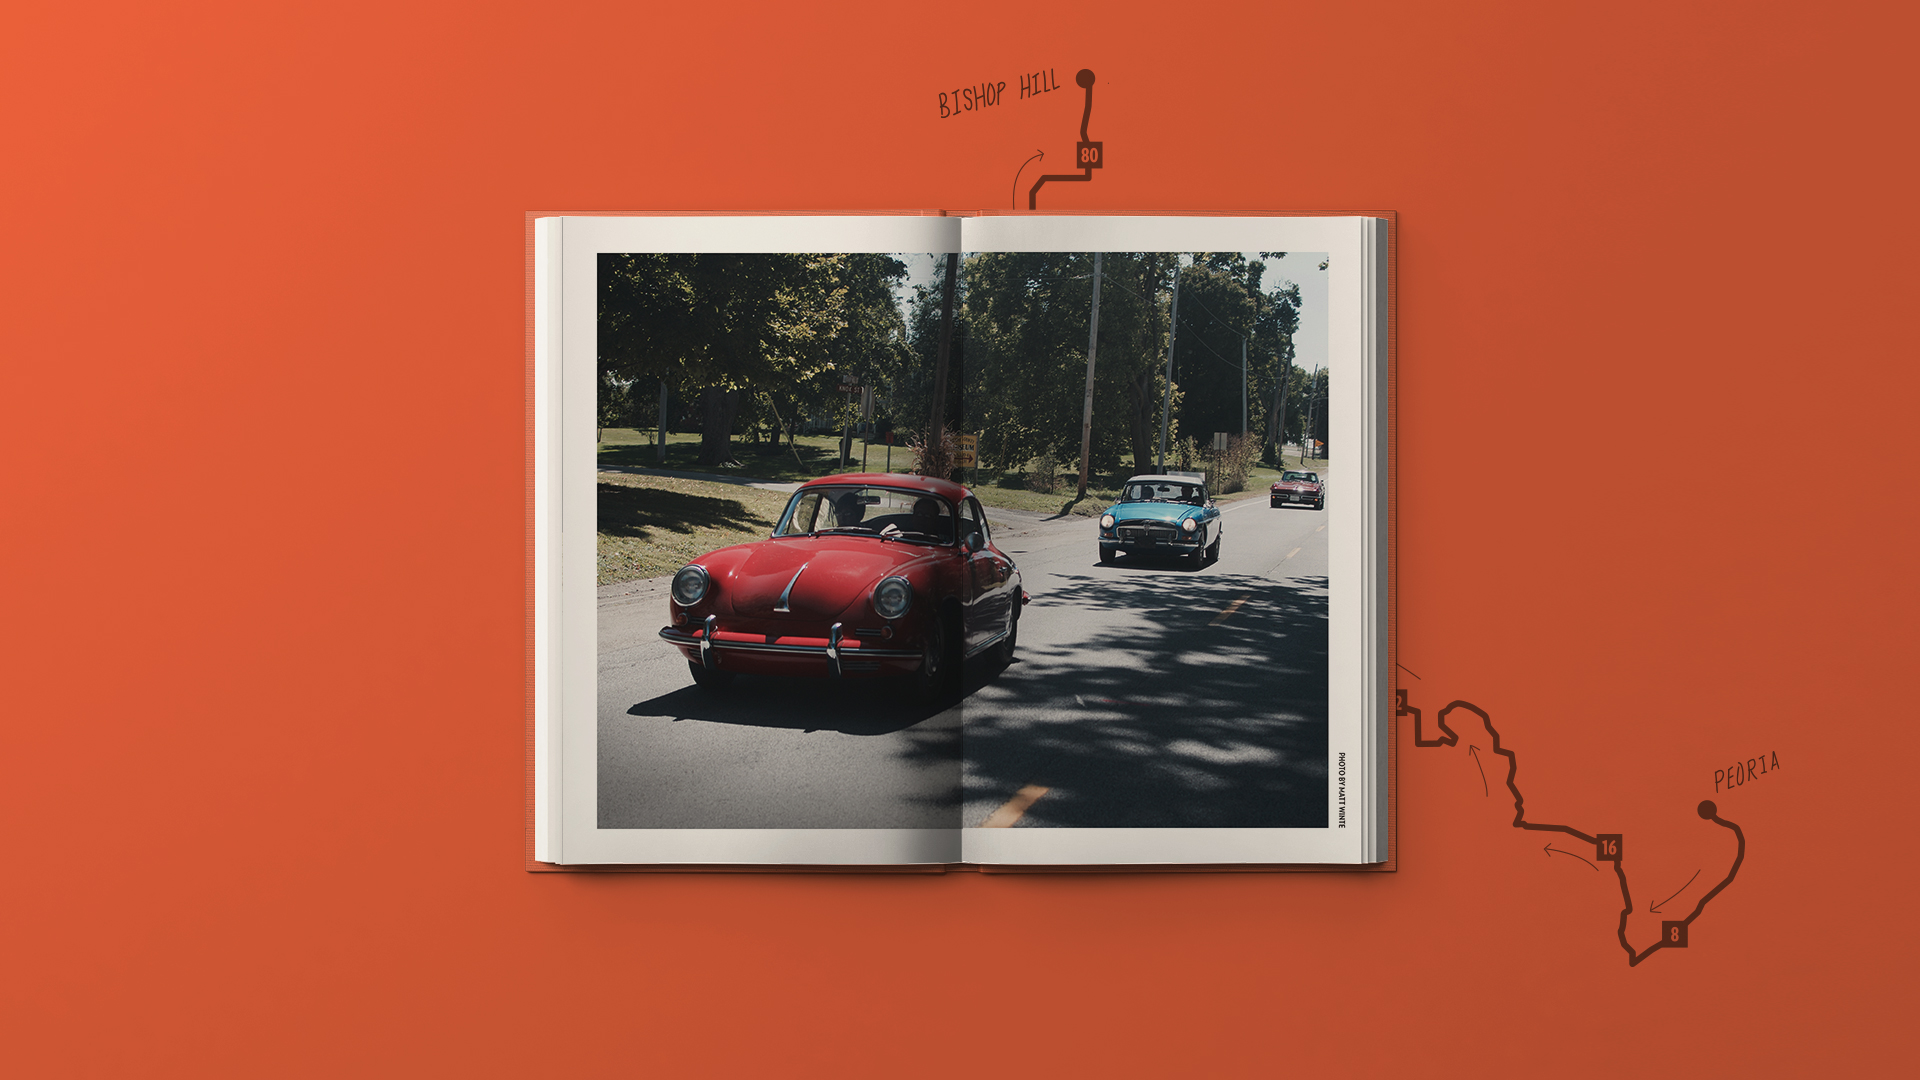
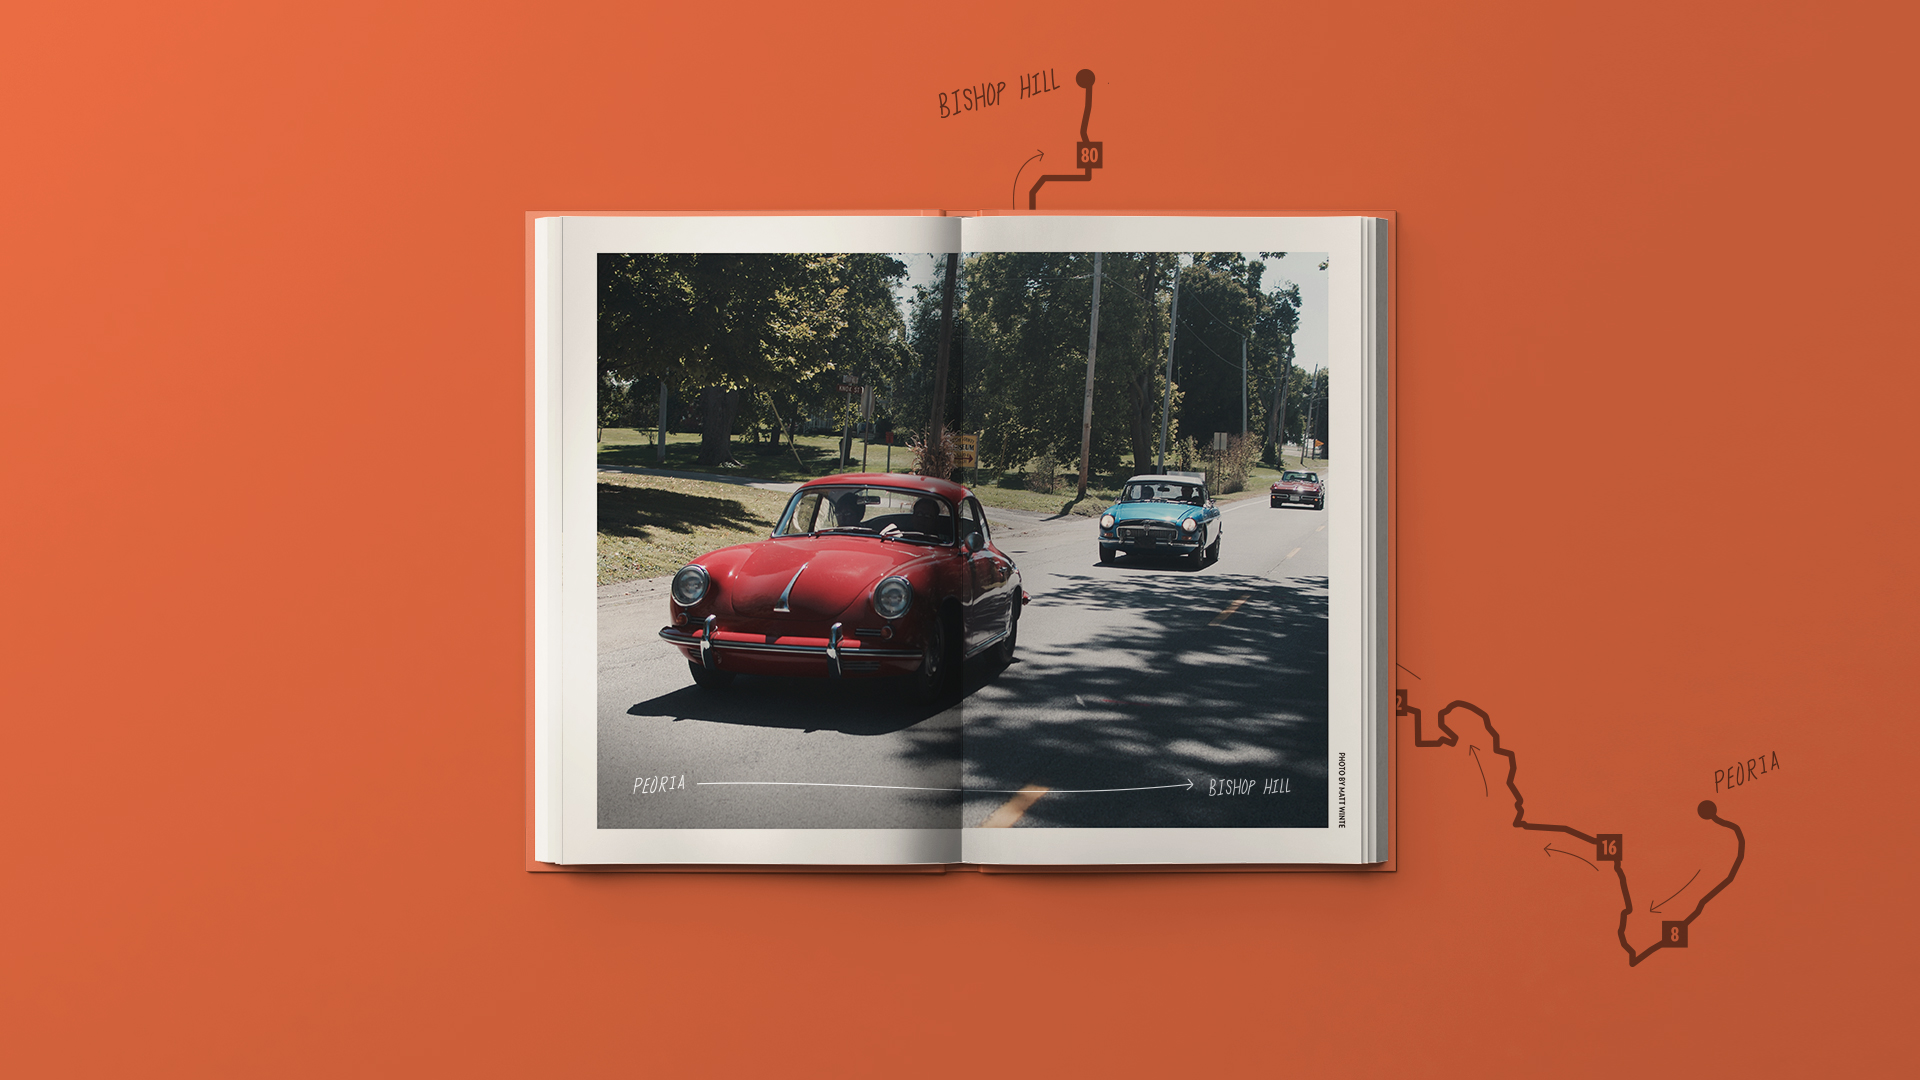
new mezzo images

diff --git a/mezzo.html b/mezzo.html
@@ -95,7 +95,6 @@
               <p>&nbsp;</p>
           </div>  
 
-
           <div class="small-12 medium-6 large-6 columns">
               <img src="img/mezzo-200/mezzo-map-1.png">
           </div>
@@ -104,9 +103,16 @@
           </div>
 
           <div class="small-12 medium-12 large-12 columns">
+              <img src="img/mezzo-200/mezzo-poster-folded.jpg">
+          </div>
+
+          <div class="small-12 medium-12 large-12 columns">
               <img src="img/mezzo-200/mezzo-business-cards.jpg">
           </div>
 
+          <div class="small-12 medium-12 large-12 columns">
+              <img src="img/mezzo-200/mezzo-book-3.jpg">
+          </div>
           <div class="small-12 medium-12 large-12 columns">
               <img src="img/mezzo-200/mezzo-book.jpg">
           </div>
